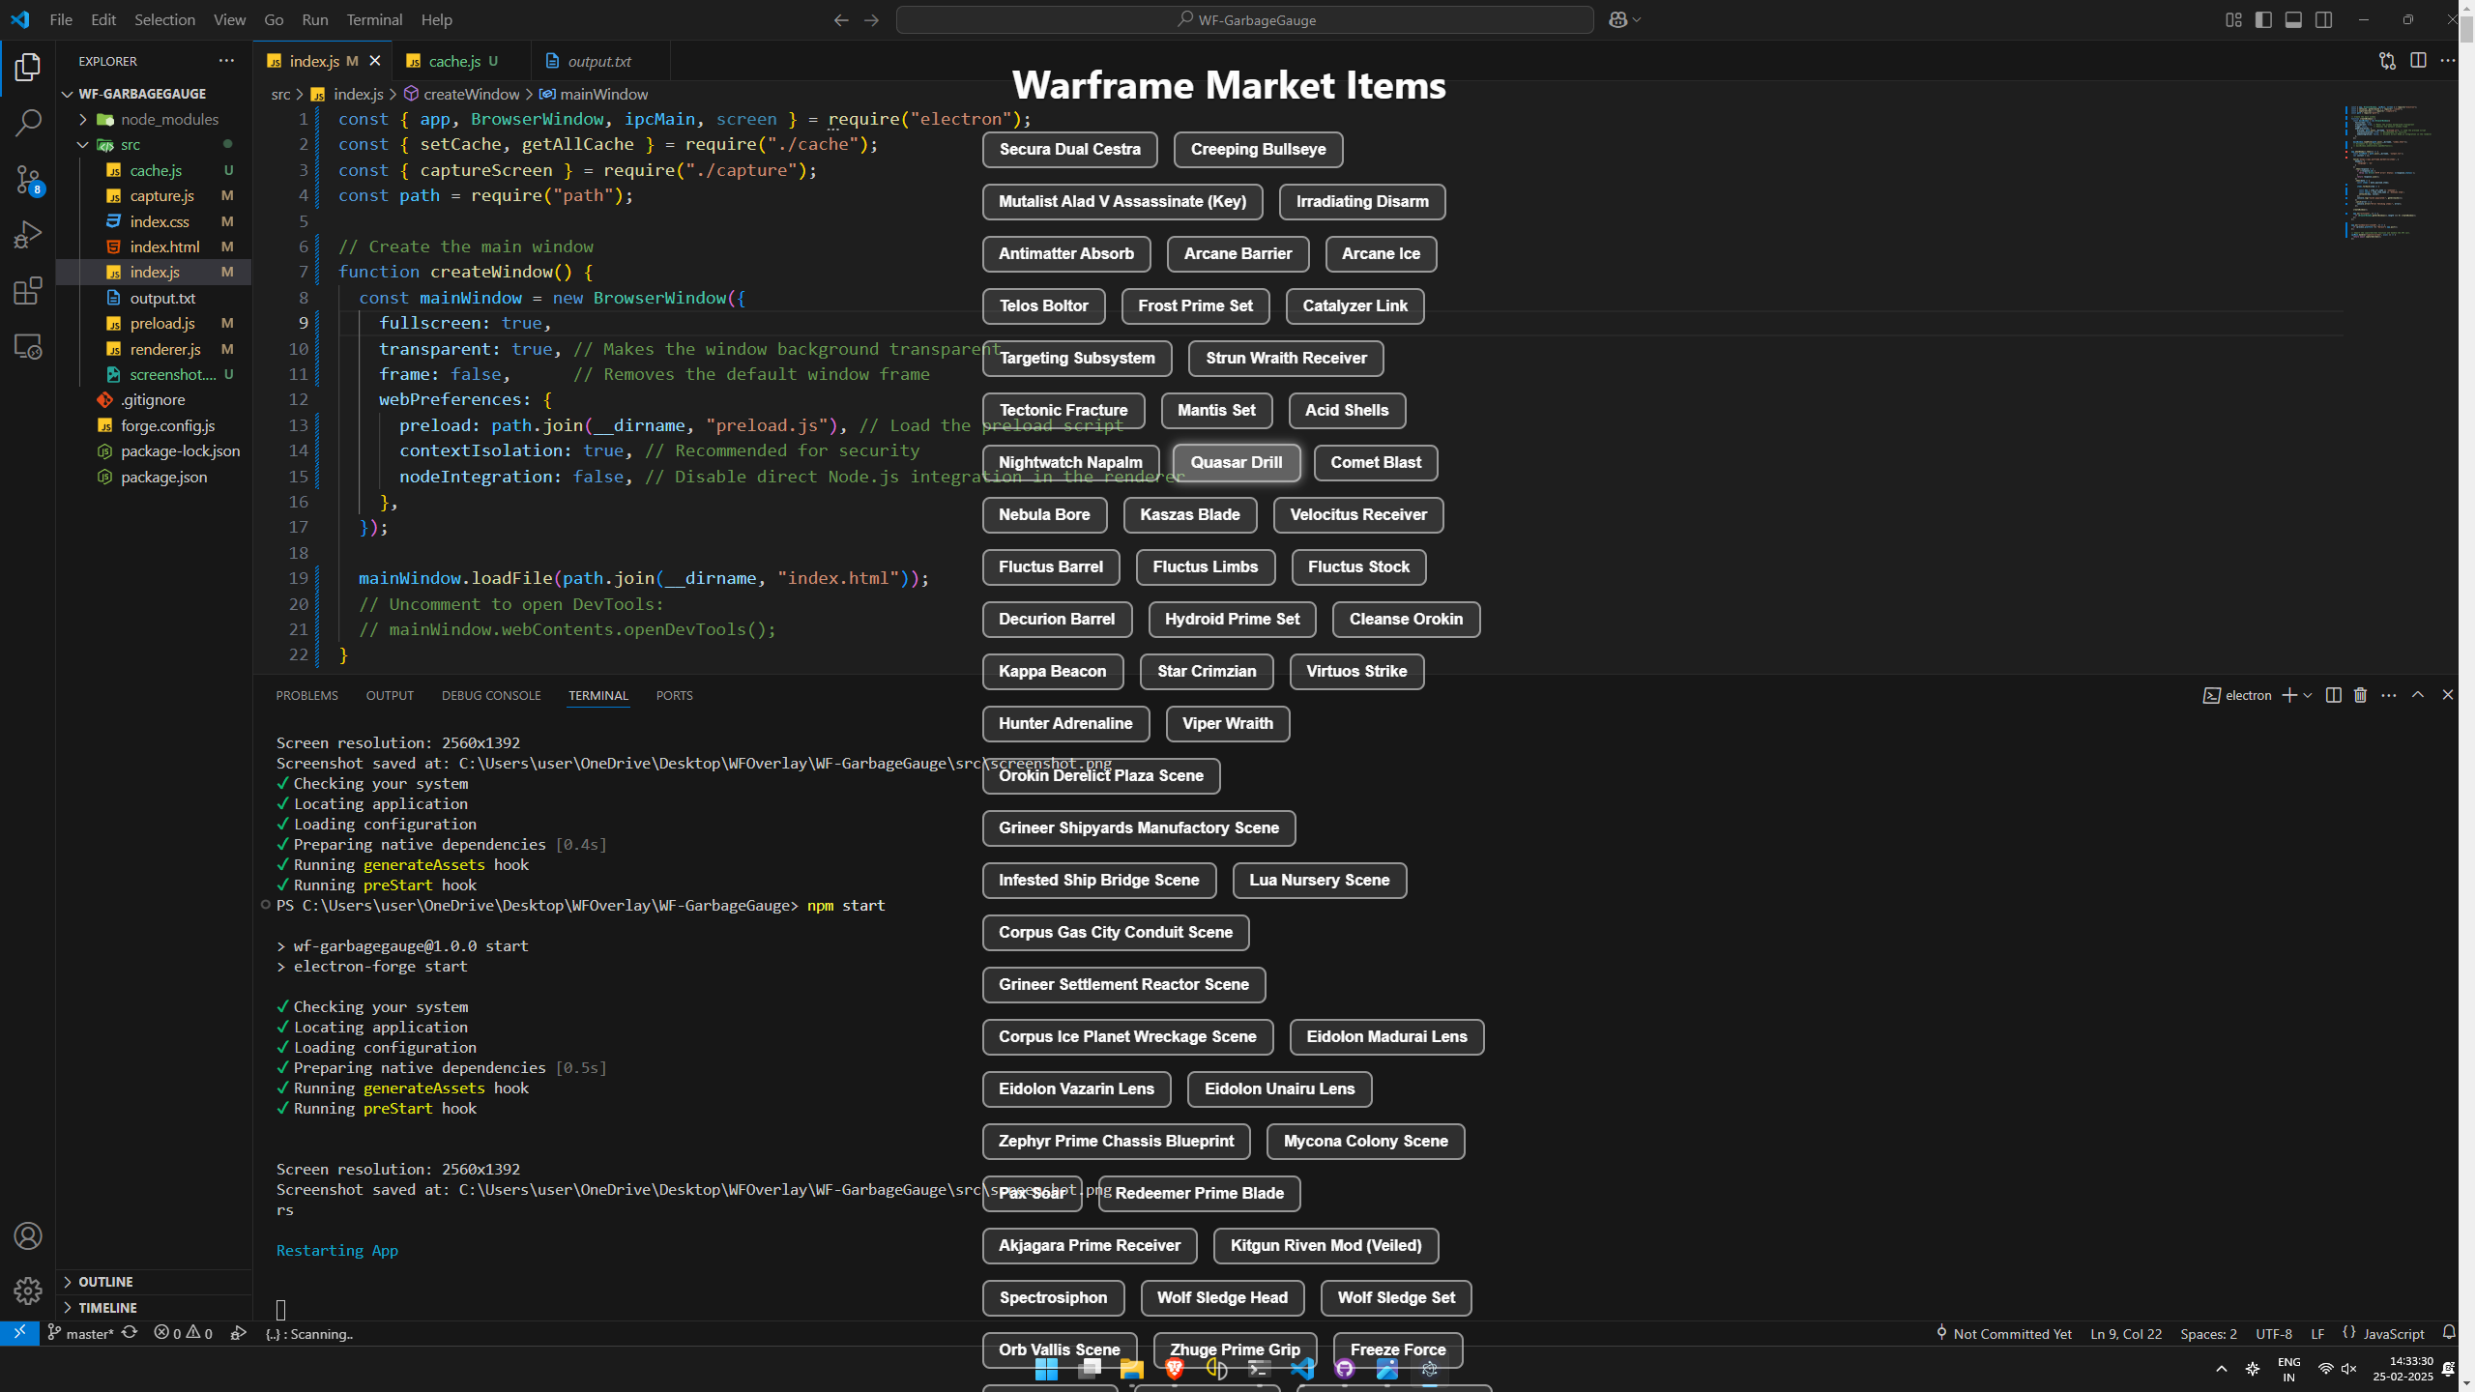
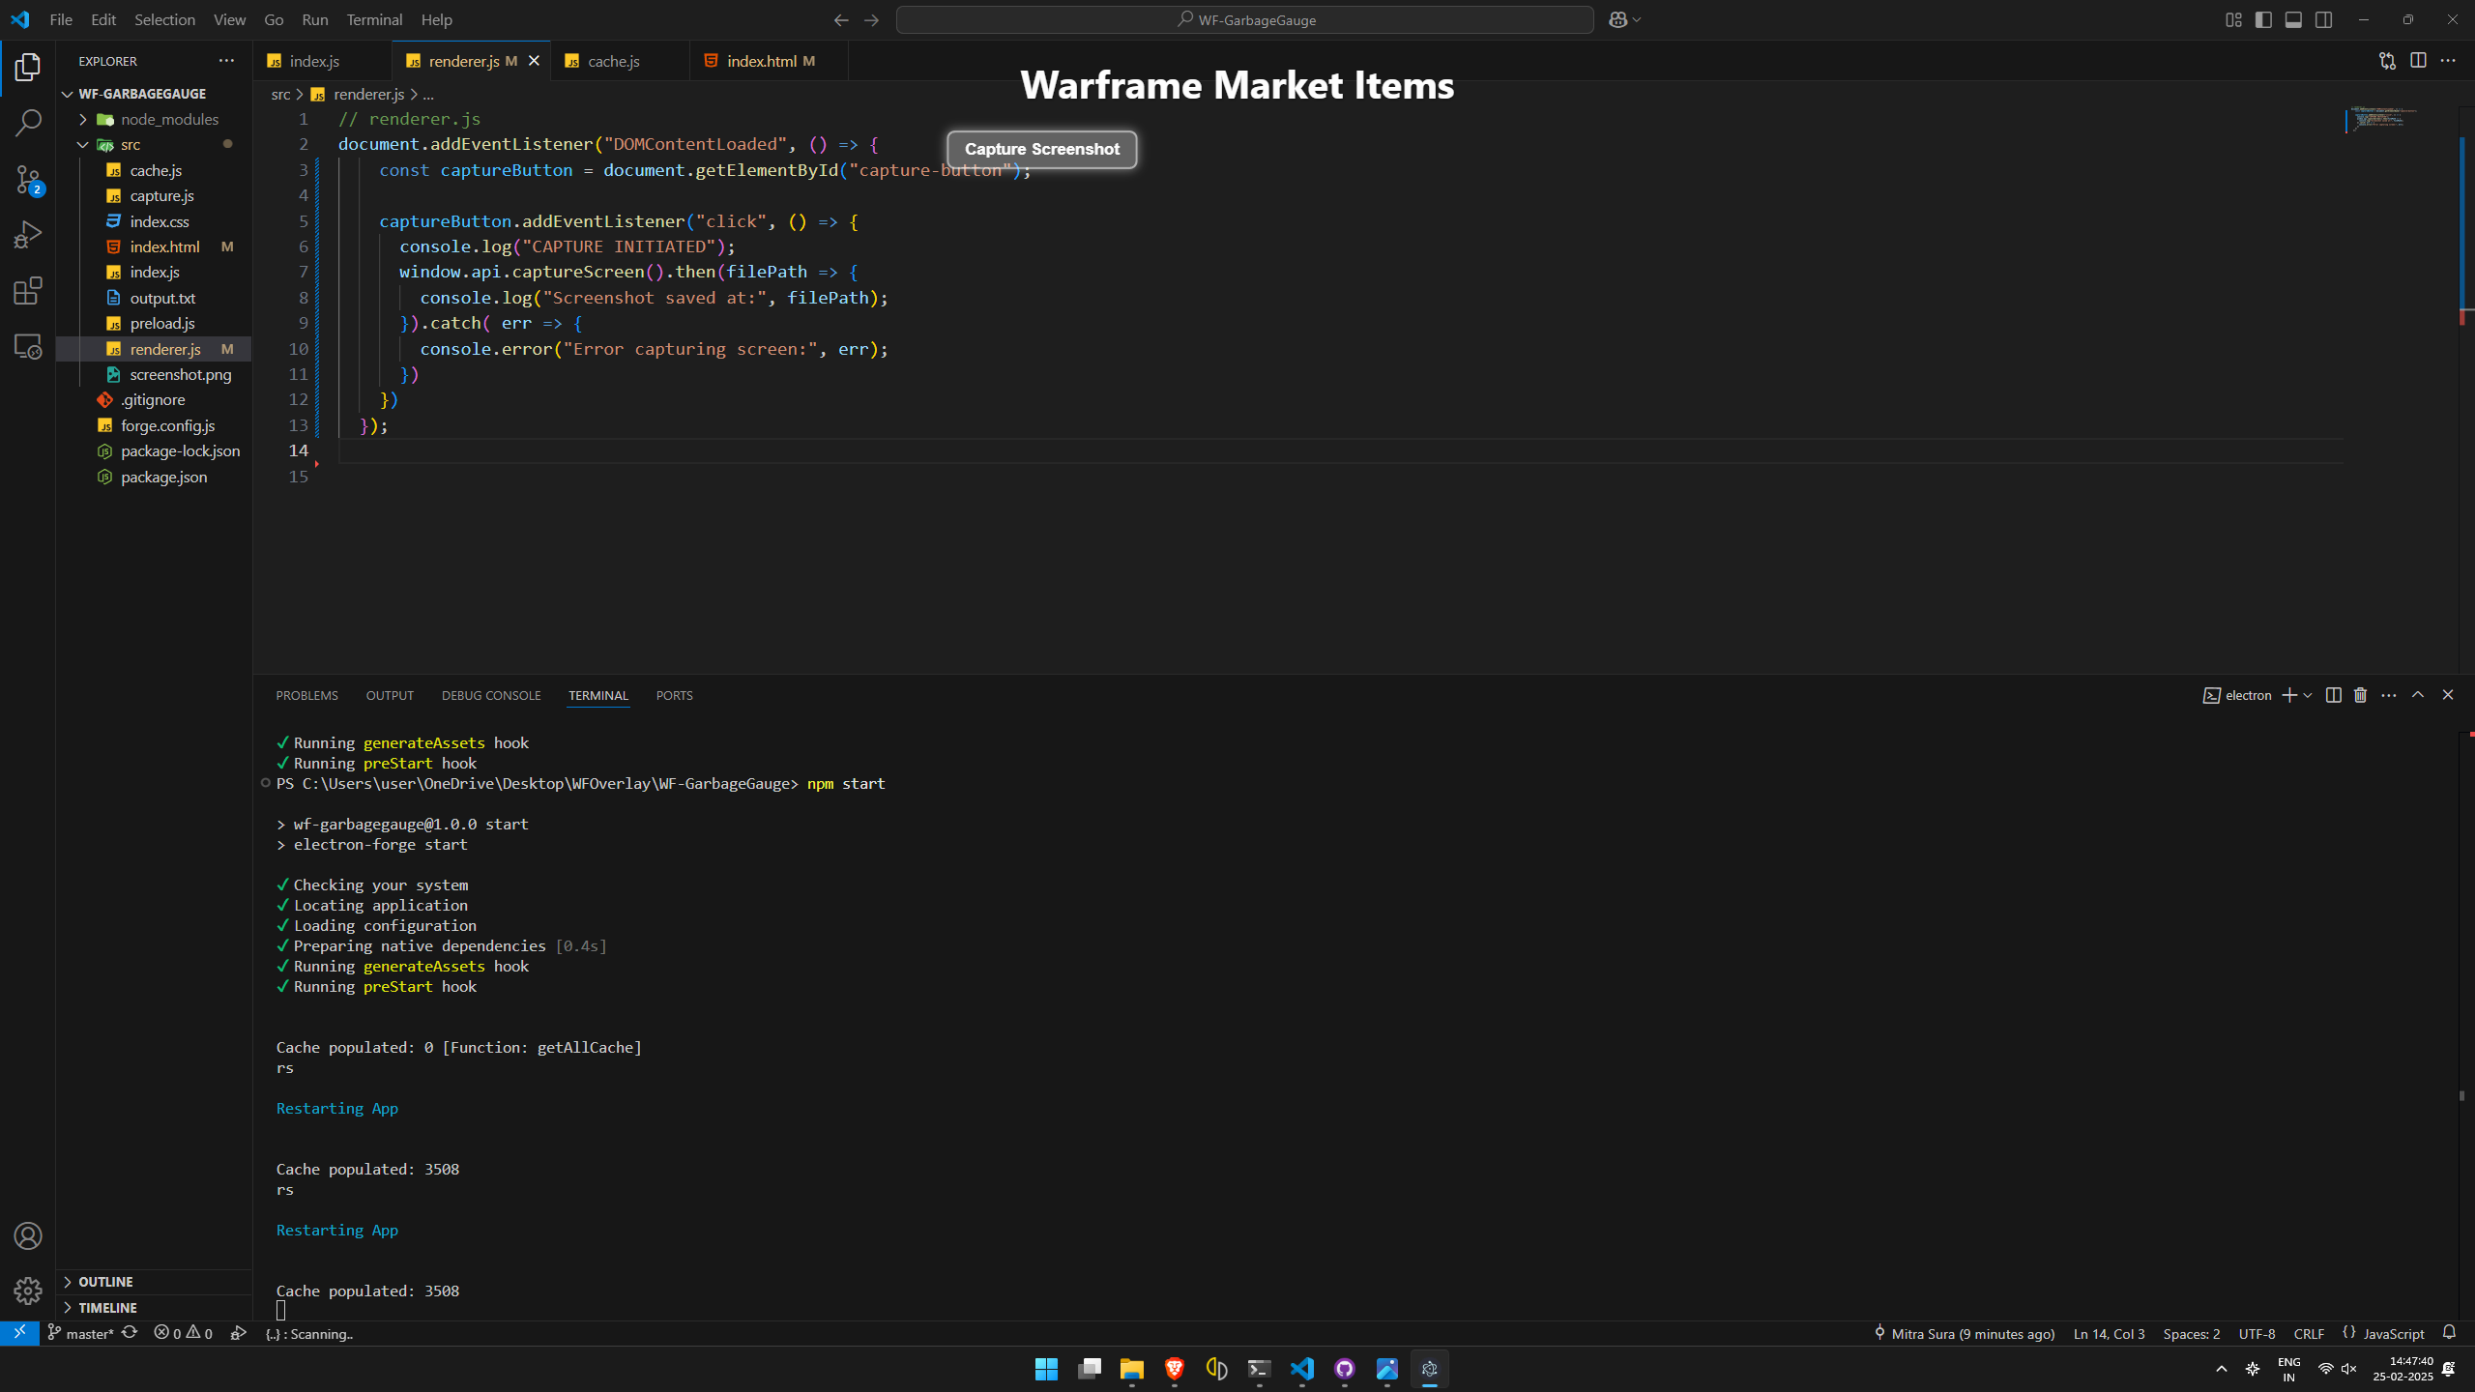
Button-location

diff --git a/src/renderer.js b/src/renderer.js
@@ -1,48 +1,15 @@
 // renderer.js
 document.addEventListener("DOMContentLoaded", () => {
-    const listElement = document.getElementById("item-list");
-  
-    // Fetch the list of tradable items from Warframe.market API
-    fetch("https://api.warframe.market/v1/items", {
-      headers: {
-        "Language": "en"
-      }
+    const captureButton = document.getElementById("capture-button");
+    
+    captureButton.addEventListener("click", () => {
+      console.log("CAPTURE INITIATED");
+      window.api.captureScreen().then(filePath => {
+        console.log("Screenshot saved at:", filePath);
+      }).catch( err => {
+        console.error("Error capturing screen:", err);
+      })
     })
-      .then((response) => {
-        if (!response.ok) {
-          throw new Error(`HTTP error! Status: ${response.status}`);
-        }
-        return response.json();
-      })
-      .then((data) => {
-        const items = data.payload.items;
-        items.forEach((item) => {
-          // Use the English item name if available; otherwise, default to 'Unknown Item'
-          const itemName = item.item_name ? item.item_name : "Unknown Item";
-          // Create a button element for the item
-          const button = document.createElement("button");
-          button.textContent = itemName;
-          button.setAttribute("data-item-name", itemName);
-          listElement.appendChild(button);
-        });
-      })
-      .catch((error) => {
-        console.error("Error fetching items:", error);
-        listElement.textContent = "Failed to load items.";
-      });
-  
-    // Listen for button clicks on the item list
-    listElement.addEventListener("click", async (event) => {
-      if (event.target.tagName === "BUTTON") {
-        const itemName = event.target.getAttribute("data-item-name");
-        console.log(`Button clicked: ${itemName}`);
-        try {
-          const filePath = await window.api.captureScreen();
-          console.log(`Screenshot saved at: ${filePath}`);
-        } catch (error) {
-          console.error("Failed to capture screen:", error);
-        }
-      }
-    });
   });
+  
   

diff --git a/src/index.css b/src/index.css
@@ -1,39 +1,57 @@
-/* index.css */
-body {
+/* Ensure the entire window is used */
+html, body {
+  height: 100%;
+  margin: 0;
   background: transparent;
   font-family: -apple-system, BlinkMacSystemFont, 'Segoe UI', Roboto, Helvetica, Arial, sans-serif;
-  margin: auto;
-  max-width: 38rem;
-  padding: 2rem;
   color: white;
 }
 
-/* Title styling */
+/* Optional: Style the title if you want */
 h1 {
-  font-size: 2.5rem;
-  margin-bottom: 1rem;
   text-align: center;
-  text-shadow: 1px 1px 3px rgba(0, 0, 0, 0.5);
-  color: white;
+  margin-top: 1rem;
 }
 
-/* Button styling */
+/* Position the button container */
+.button-container {
+  position: absolute;
+  left: 50%;
+  bottom: 5%; /* Lower position */
+  transform: translateX(-50%);
+}
+
 button {
-  display: inline-block;
-  margin: 0.5rem;
-  padding: 0.5rem 1rem;
-  font-size: 1rem;
+  position: relative;
+  padding: 1rem 2rem;
+  font-size: 1.5rem;
   font-weight: bold;
   color: white;
-  background-color: rgba(255, 255, 255, 0.1);
+  background-color: rgba(255, 255, 255, 0.2); /* Semi-transparent background */
   border: 2px solid rgba(255, 255, 255, 0.5);
   border-radius: 8px;
   cursor: pointer;
-  transition: background-color 0.3s ease, transform 0.2s ease, box-shadow 0.3s ease;
+  transition: background-color 0.3s, transform 0.2s;
 }
 
+
 button:hover {
-  background-color: rgba(255, 255, 255, 0.3);
-  transform: scale(1.05);
-  box-shadow: 0 0 10px rgba(255, 255, 255, 0.5);
+  background-color: rgba(255, 255, 255, 0.4);
+  transform: scale(1.1);
+}
+
+.relic-info-container {
+  display: flex;
+  justify-content: center;
+  align-items: center;
+  flex-wrap: wrap;
+}
+
+.relic-card {
+  background: rgba(0, 0, 0, 0.8);
+  padding: 10px;
+  margin: 5px;
+  border-radius: 8px;
+  color: white;
+  text-align: center;
 }

diff --git a/src/index.html b/src/index.html
@@ -1,4 +1,3 @@
-<!-- index.html -->
 <!DOCTYPE html>
 <html>
   <head>
@@ -8,8 +7,10 @@
   </head>
   <body>
     <h1>Warframe Market Items</h1>
-    <!-- A list where items (buttons) will be inserted -->
-    <ul id="item-list"></ul>
+    <!-- A container for the single button -->
     <script src="renderer.js"></script>
+    <div class="button-container">
+      <button id="capture-button">Capture Screenshot</button>
+    </div>
   </body>
 </html>
